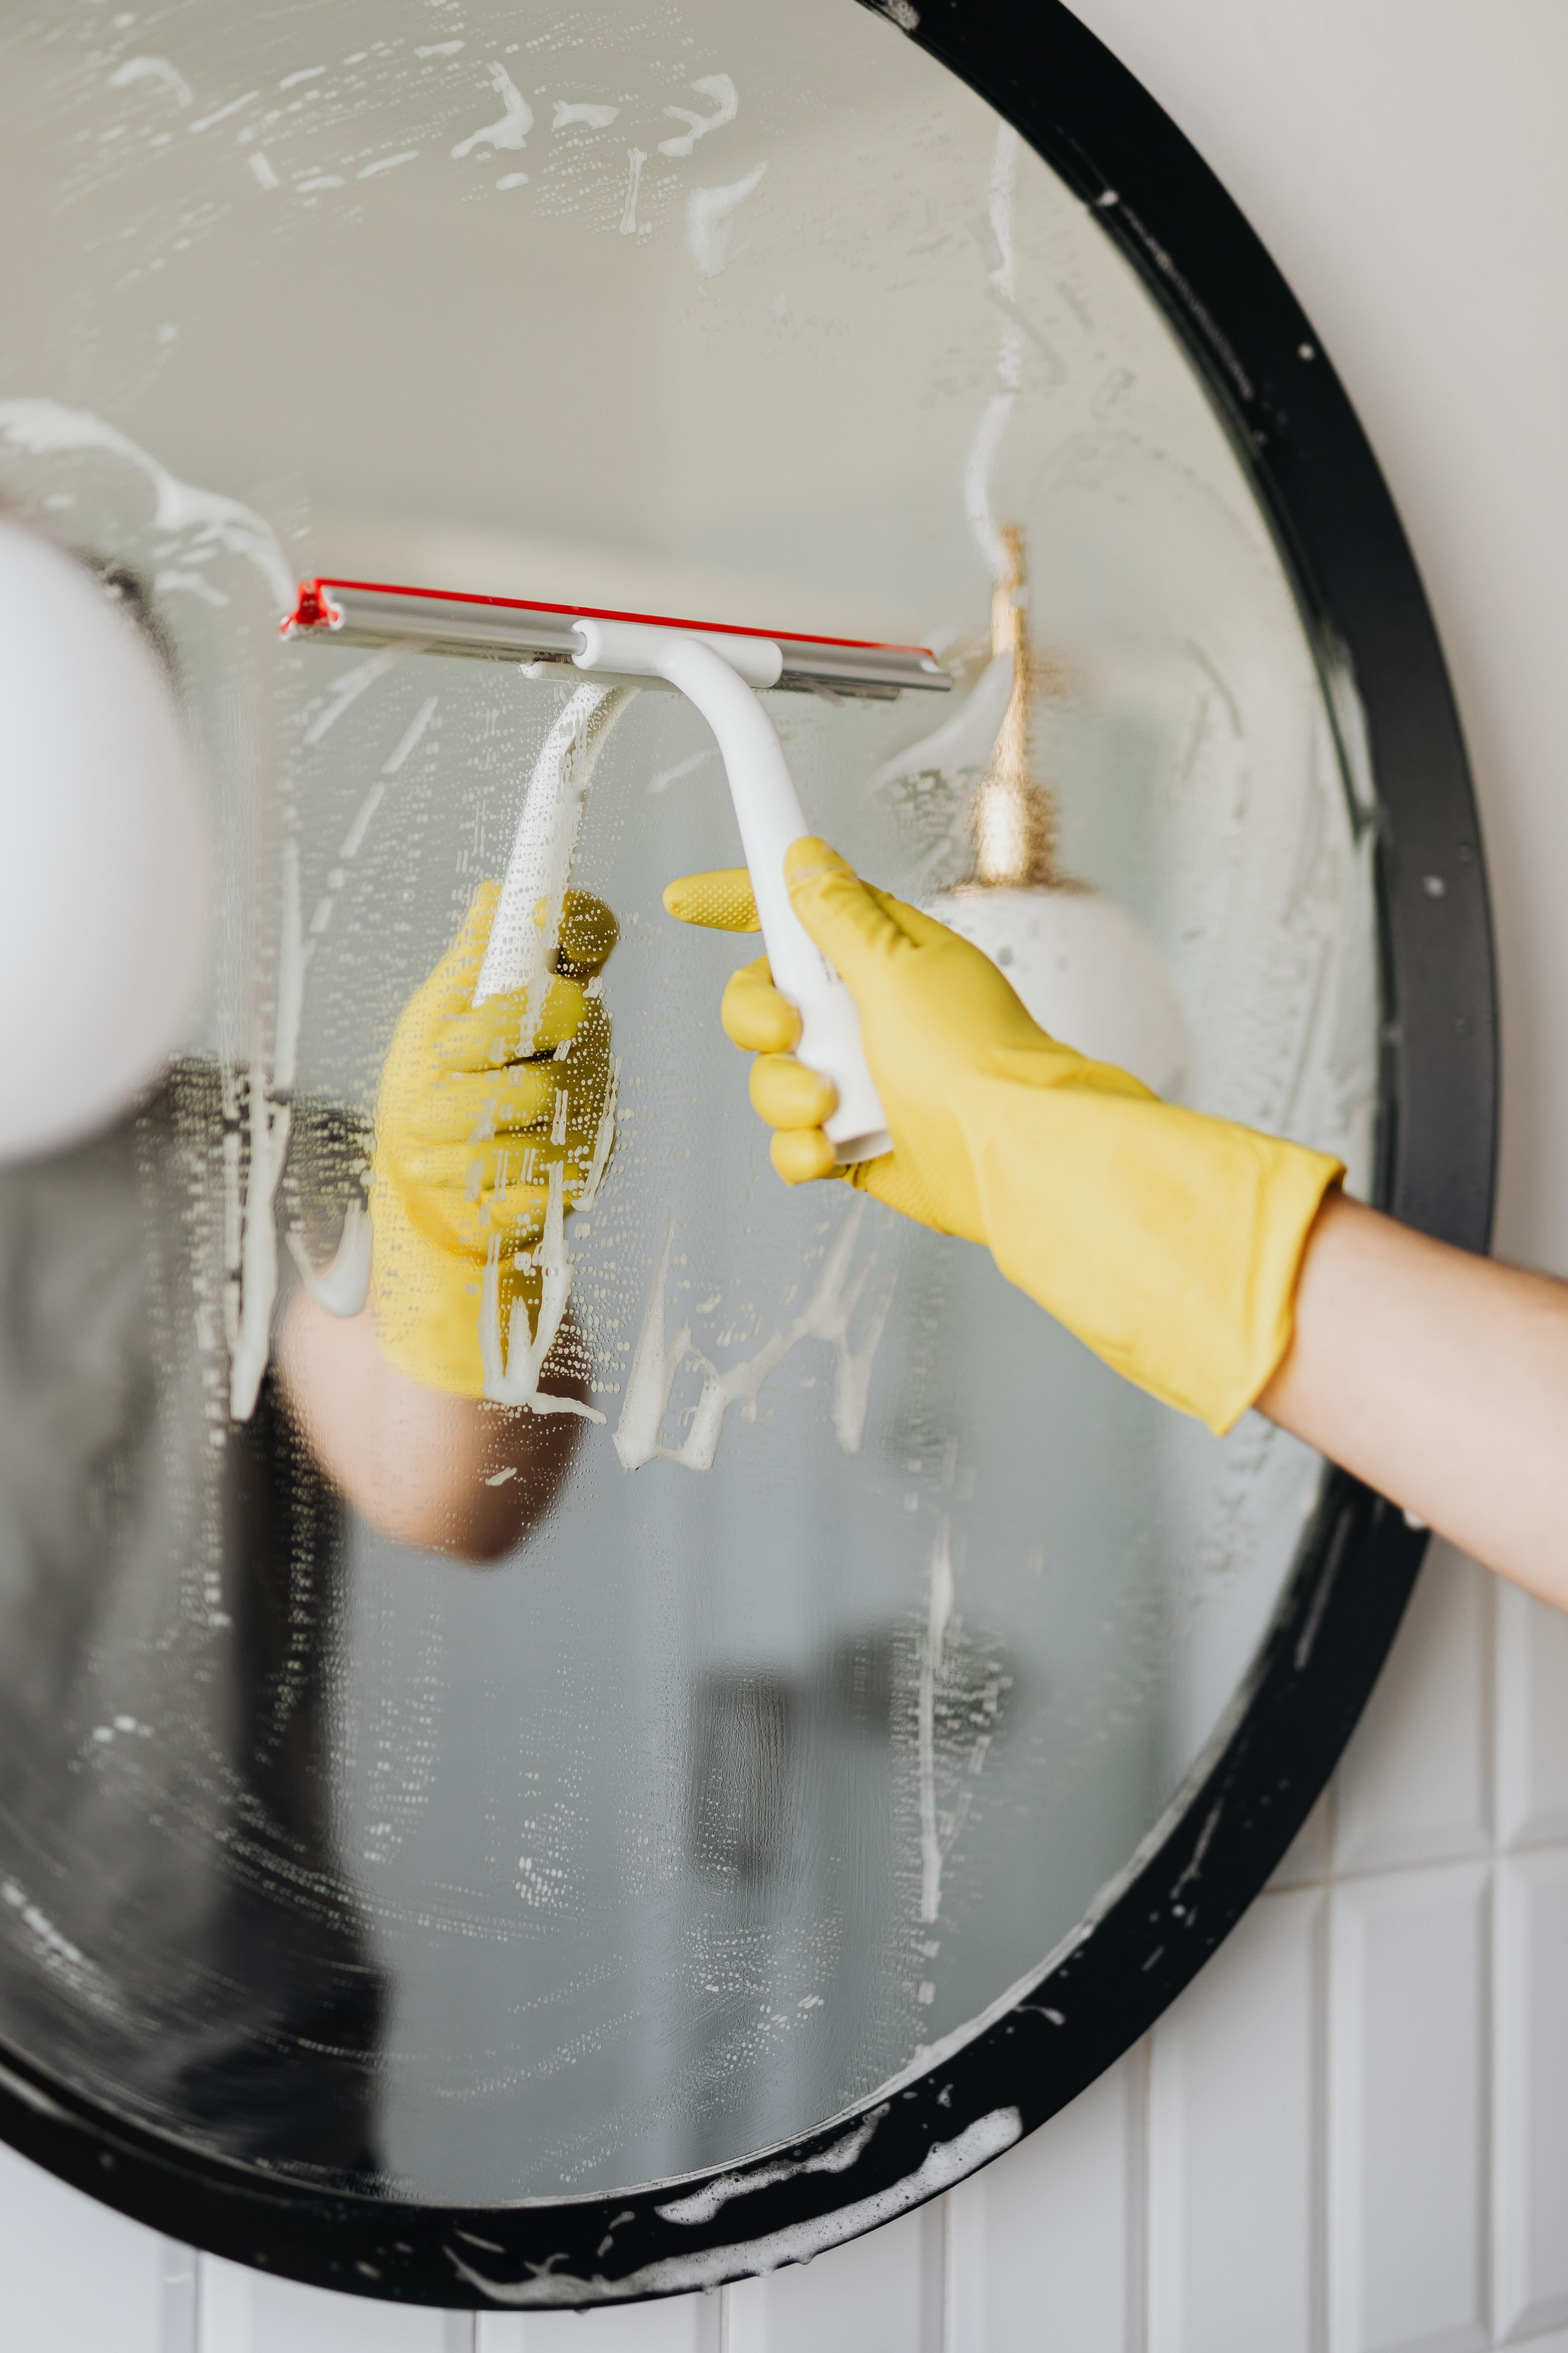
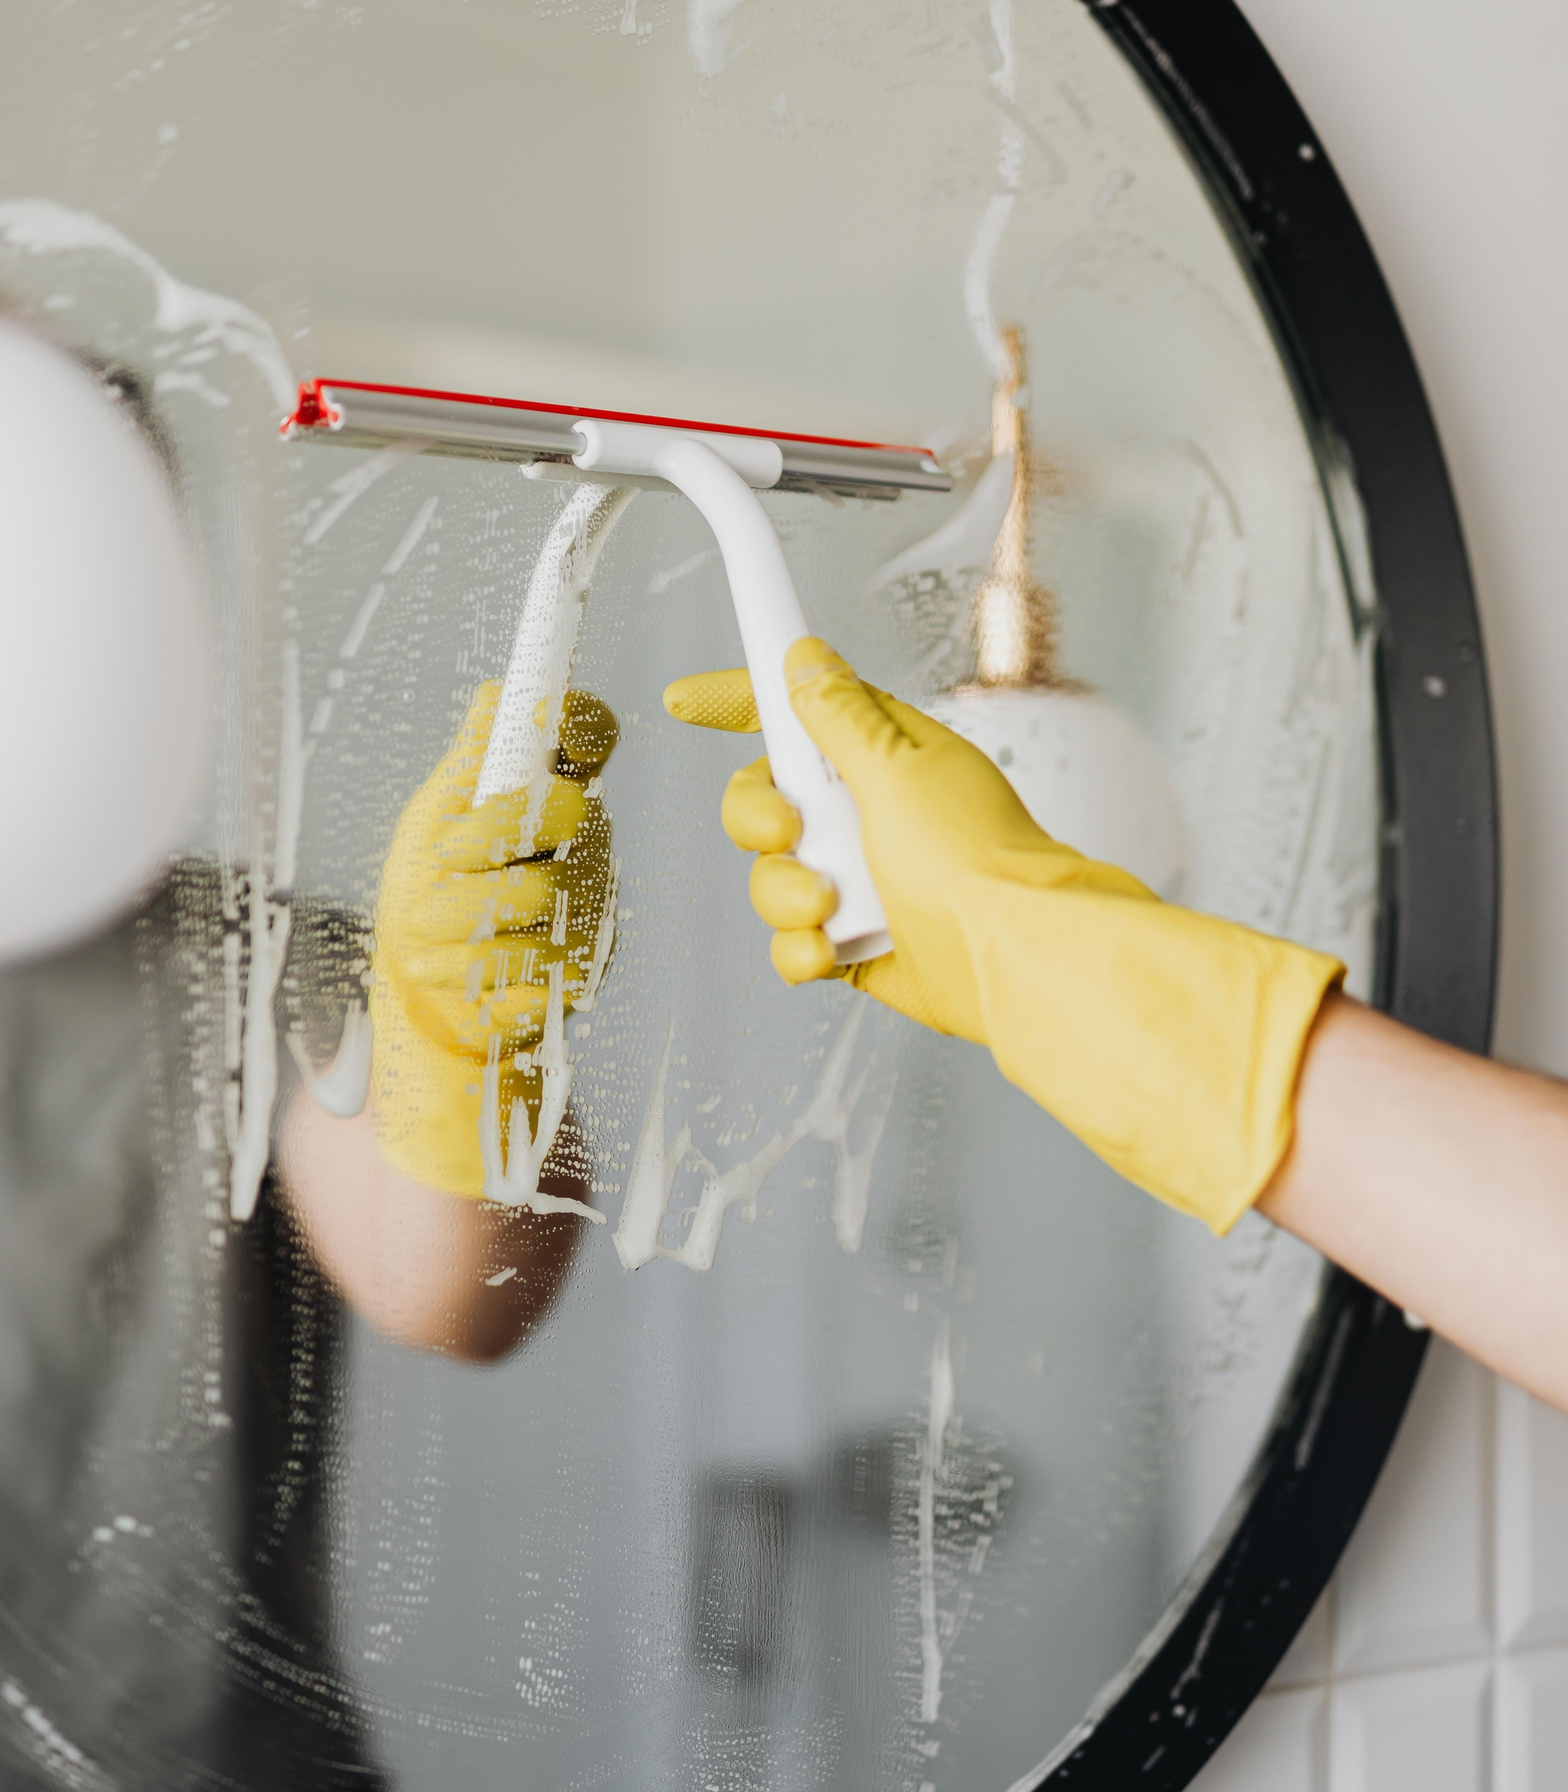
References and phone picture added

diff --git a/pages/Services.js b/pages/Services.js
@@ -1,7 +1,78 @@
-import React from 'react';
+import React, { useState } from 'react';
+import { Div, Image, Button, Icon, Text } from 'atomize';
+import Magnifier from 'react-magnifier';
 
 const Services = () => {
-  return <h1>Services</h1>;
+  const images = [
+    {src: require(`../src/images/mirror-min.jpg?webp`), alt: 'Samsun Duru Temizlik, temizlik ürünleri'},
+    {src: require(`../src/images/kitchen.jpg?webp`), alt: 'Samsun temizlik şirketi elemanı'},
+    {src: require(`../src/images/vacuum.jpg?webp`), alt: 'Temizlik ürünleri dolu vileda sepeti'},
+  ]
+
+  const services = [{title: "Ev, Ofis Temizliği", text:"En çok verilen hizmetlerimizden biri olan ev temizliği, şirketimizin evinizin büyüklüğüne ve durumuna göre verdiği fiyat teklifi ardından randevu alınarak gerçekleştiriliyor. Hizmetlerimiz her odanın, banyo ve tuvalet dahil olmak üzere, temizliğini içeriyor. Mutfak dolaplarının temizlenmesi de ek hizmet olarak sunulabiliyor. Ancak halı temizliği ve ütü işleri personellerimizi kapsamıyor. Ofis temizliği hizmetleri de ev temizliğine benzer şekilde işliyor. Ev sahibinin evde bulunması herhangi bir farklılık yaratmamakla birlikte, bulunmaması takdirde gün sonunda anahtar teslimi yapılıyor."},
+   {title: "İnşaat sonrası temizliği", text: "İnşaat sonrası temizliği, ev temizliğine benzer olmakla beraber daha fazla uğraş gerektirmesi sebebiyle; şirketimiz tarafından daha yüksek fiyat teklifleri sunulabiliyor. Personellerimiz, gerekli malzemeleri kullanarak , ince işleri mülkünüze zarar gelmeyecek şekilde özenle yapıyorlar. İnce temizlik, camlardaki pinapen bantlarının ve inşaat, boya lekelerinin çıkarılmasını içeriyor. Yapılan inşaatın özen durumuna göre fiyatlarda değişiklik olabiliyor."},
+   {title: "Otel, Yurt temizliği", text: "Otel ve yurt gibi birçok oda/daire içeren mülklerin temizliği; diğer hizmetlerimizin aksine bir günden fazla sürebilir. Personellerimizin ve hizmetimizin kalitesinde herhangi bir değişiklik olmaması önceliğimizdir. İş fiyatları, randevu öncesi belirlenen iş bitimi için gereken gün sayısına göre belirlenerek kesinleştirilir. Mülklerin konumunun, merkeze uzaklığının, fiyatlarda ulaşım süresi dolayısıyla etkisi olabilir."},
+   {title: "Merdiven temizliği", text: "Çok yaygın tercih edilmemesine rağmen, şirketimiz daha önce merdiven temizliği vermiştir ve müşterilerimiz bu hizmet için kolaylıkla fiyat teklifi alabilir. Fiyatlar kat ve basamak sayısına, temizlik durumuna göre değişiklik gösterir."}
+  ];
+
+  const [activeElement, setActiveElement] = useState(0);
+
+  return (
+    <Div
+      w="90vw"
+      m="0 auto"
+      d="flex"
+      flexDir="column"
+      align="center"
+      justify="center"
+    >
+      <Div
+        w="100%"
+        d="flex"
+        align="center" 
+        justify="center"
+      >
+        {images.map((img, idx) => {
+          return <Div key={idx} className="services-img" h="20vw" m={`${idx*5}vw 1.25vw 0 1.25vw`}><Magnifier width="auto" height="20vw" src={img.src} alt={img.alt} /></Div>
+        })}
+      </Div>
+      <Div d="flex" m="5vw 0 2.5vw 0">
+        {services.map((service, idx) => {
+          return <Button 
+            key={idx}
+            bg="#fff" 
+            borderColor="primaryGreen" 
+            border="2px solid" 
+            textColor="alpha"
+            m="0 0.5vw"
+            hoverBg="primaryGreen"
+            hoverTextColor="white"
+            textAlign="center"
+            onClick={() => setActiveElement(idx)}
+            >
+              {service.title}
+            </Button>
+        })}
+      </Div>
+      <Div className="activeService" style={{backgroundImage: `url(${"./blob-scatter.svg"})`}}>
+      {services.map((service, idx) => {
+        return <Text 
+          key={idx}
+          className={activeElement === idx ? "" : "disabled"}
+          w="50vw"
+          minH="30vh"
+          h="auto"
+          tag="p"
+          textSize="body"
+          m="10vw auto"
+          textAlign="justify"
+        >
+          {service.text}
+        </Text>
+      })}
+      </Div>
+    </Div>
+  );
 };
 
 export default Services;

diff --git a/styles/style.scss b/styles/style.scss
@@ -101,8 +101,8 @@ body {
 }
 
 .glass {
-  filter: contrast(130%) brightness(120%);
-  -webkit-filter: contrast(130%) brightness(120%);
+  filter: contrast(130%) brightness(120%) saturate(180%);
+  -webkit-filter: contrast(130%) brightness(120%) saturate(180%);
   background:
     radial-gradient(
       ellipse at 16.7% -10%,
@@ -180,4 +180,39 @@ body {
   .underline {
     background-size: 110% 4px;
   }
+}
+
+.services-img {
+  transition: 0.4s all ease-in-out;
+  &:hover {
+    transform: scale(1.35);
+    z-index: 2;
+  }
+  .magnifier {
+    .magnifier-image {
+      padding: 0.25vw;
+      backdrop-filter: blur(16px) saturate(180%);
+      -webkit-backdrop-filter: blur(16px) saturate(180%);
+      background-color: rgba(255, 255, 255, 0.75);
+      border-radius: 12px;
+      border: 1px solid rgba(204, 213, 219, 0.3);
+      transition: 0.35s all ease-in;
+    }
+  }
+}
+
+.activeService {
+  width: 75vw;
+  height: 35vw;
+  background-position: center;
+  background-size: 75vw auto;
+  p {
+    z-index: 2;
+    width: 50vw;
+    background-color: white;
+  }
+}
+
+.disabled {
+  display: none;
 }

diff --git a/src/components/Phone.js b/src/components/Phone.js
@@ -1,0 +1,28 @@
+import React from 'react';
+import { Div, Image, Text } from 'atomize';
+
+const Phone = () => {
+  return (
+    <Div
+      d="flex"
+      w="100%"
+      m="5vh auto"
+      align="center"
+      justify="center"
+      bg="accentBlue"
+    >
+      <Text 
+        w="40%"
+        tag="h2"
+        textSize="h2"
+        textAlign="center"
+        p="0 2.5%"
+      >
+        Fiyat teklifi ve randevu almak için bize ulaşın!
+      </Text>
+      <Image src={require(`../images/phone-3d.png?webp`)} w="40%" h="auto" />
+    </Div>
+  );
+}
+
+export default Phone;

diff --git a/pages/Homepage.js b/pages/Homepage.js
@@ -2,6 +2,7 @@ import React, { useState, useEffect } from 'react';
 import { Text, Div, Image, Icon } from 'atomize';
 import Gallery from '../src/components/Gallery';
 import AboutUs from './AboutUs';
+import Phone from '../src/components/Phone';
 
 const Homepage = () => {
   const [animation, setAnimation] = useState(true);
@@ -33,6 +34,7 @@ const Homepage = () => {
       </Text>
       <Gallery />
       <AboutUs />
+      <Phone />
     </>
   );  
 }

diff --git a/src/components/Gallery.js b/src/components/Gallery.js
@@ -1,5 +1,4 @@
 import React from 'react';
-import Magnifier from 'react-magnifier';
 import { Icon, Image } from 'atomize';
 import { Carousel } from 'react-responsive-carousel';
 import "react-responsive-carousel/lib/styles/carousel.min.css"; // requires a loader
